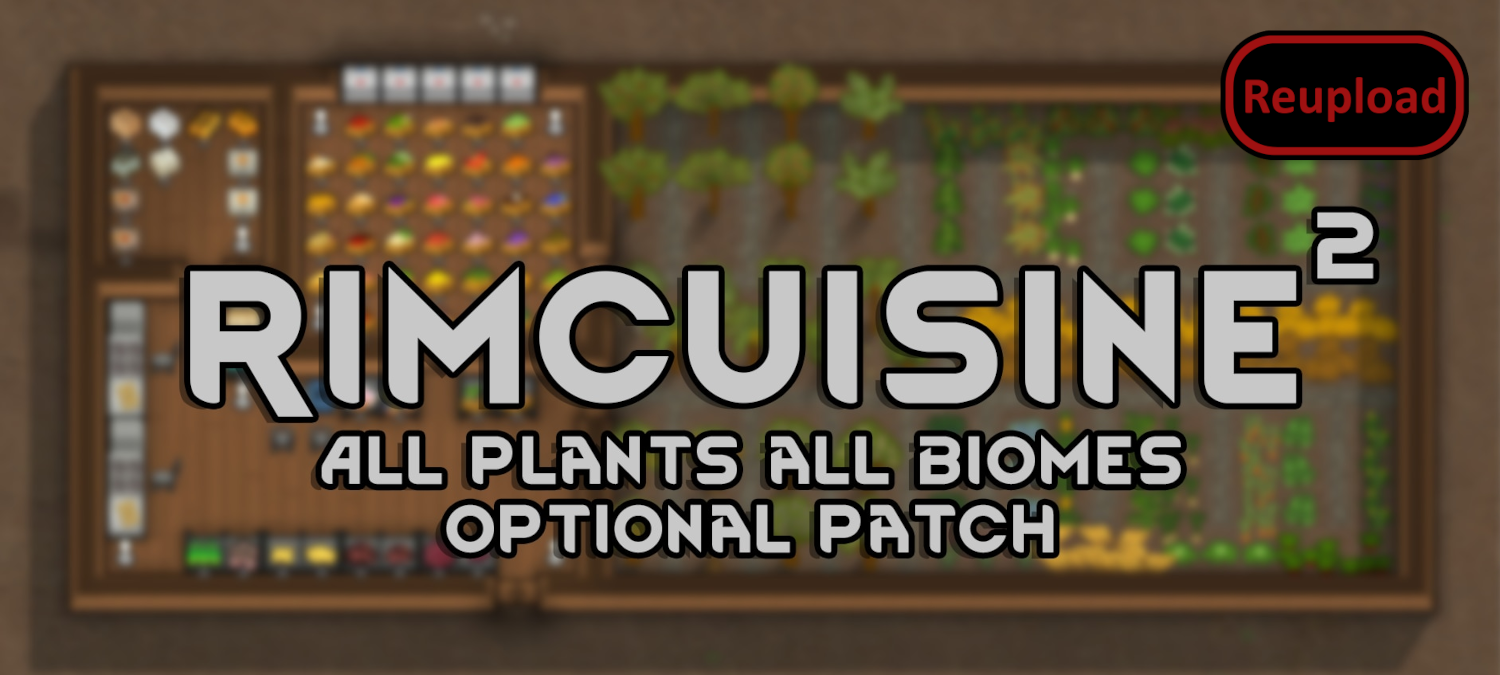
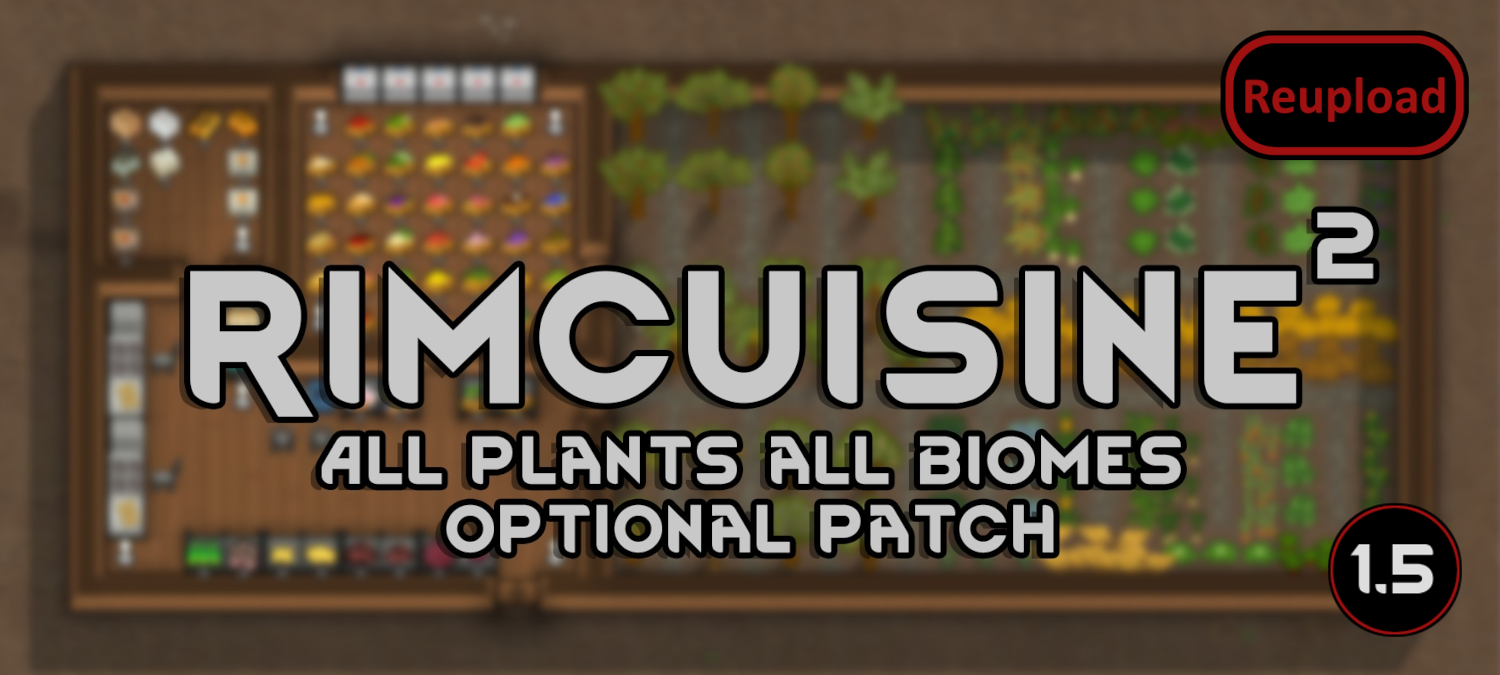
Mod updated for 1.5 and passed autotests

Changed region(s): [[0.8587, 0.7467, 0.9813, 0.9644]]

diff --git a/README.md b/README.md
@@ -1,14 +1,14 @@
 # RimCuisine2AllPlantsAllBiomesPatch
 
-![Image](https://i.imgur.com/WAEzk68.png)
+![Image](https://i.imgur.com/buuPQel.png)
 
 Update of Crustypeanuts mod
 https://steamcommunity.com/sharedfiles/filedetails/?id=1839071307
 
-![Image](https://i.imgur.com/7Gzt3Rg.png)
+![Image](https://i.imgur.com/pufA0kM.png)
 
 	
-![Image](https://i.imgur.com/NOW7jU1.png)
+![Image](https://i.imgur.com/Z4GOv8H.png)
 
 
 This **optional** patch throws balance out the window and lets you grow any plant in any biome! You want sugarcane in a tundra? Aight! Juniper Berries in the middle of the desert? Sure! Grapes in a tropical swamp? I don't think I'd want to try the wine that came out of that but okay!
@@ -29,30 +29,19 @@ Should work fine adding it mid-game :D
 
 ------------------------------------------------------------
 
-![Image](https://i.imgur.com/Rs6T6cr.png)
-
-
-
--  See if the the error persists if you just have this mod and its requirements active.
--  If not, try adding your other mods until it happens again.
--  Post your error-log using https://steamcommunity.com/workshop/filedetails/?id=818773962]HugsLib and command Ctrl+F12
--  For best support, please use the Discord-channel for error-reporting.
--  Do not report errors by making a discussion-thread, I get no notification of that.
--  If you have the solution for a problem, please post it to the GitHub repository.
-
-
-
-
-	
 ![Image](https://i.imgur.com/PwoNOj4.png)
 
 
 
 -  See if the the error persists if you just have this mod and its requirements active.
 -  If not, try adding your other mods until it happens again.
--  Post your error-log using https://steamcommunity.com/workshop/filedetails/?id=818773962]HugsLib and command Ctrl+F12
+-  Post your error-log using https://steamcommunity.com/workshop/filedetails/?id=818773962]HugsLib or the standalone https://steamcommunity.com/sharedfiles/filedetails/?id=2873415404]Uploader and command Ctrl+F12
 -  For best support, please use the Discord-channel for error-reporting.
 -  Do not report errors by making a discussion-thread, I get no notification of that.
 -  If you have the solution for a problem, please post it to the GitHub repository.
+-  Use https://github.com/RimSort/RimSort/releases/latest]RimSort to sort your mods
 
+
+
+https://steamcommunity.com/sharedfiles/filedetails/changelog/2069602730]![Image](https://img.shields.io/github/v/release/emipa606/RimCuisine2AllPlantsAllBiomesPatch?label=latest%20version&style=plastic&color=9f1111&labelColor=black)
 
